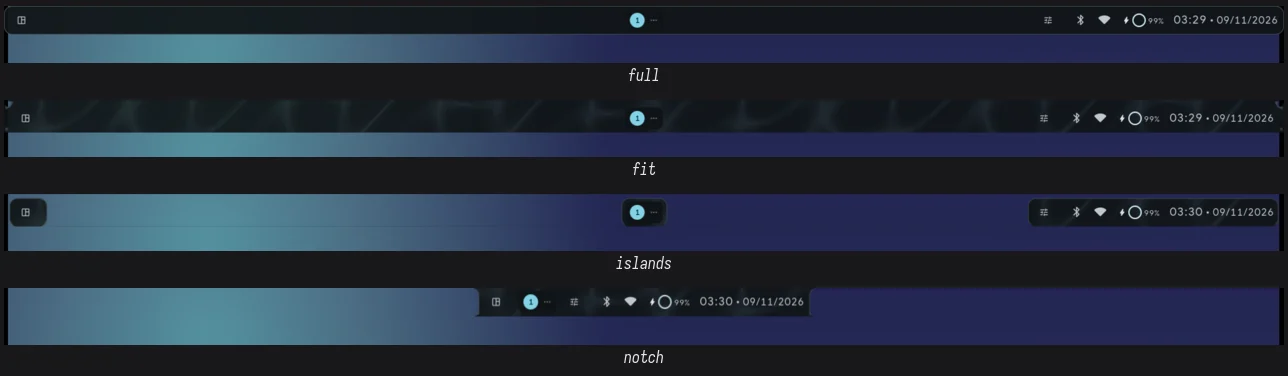
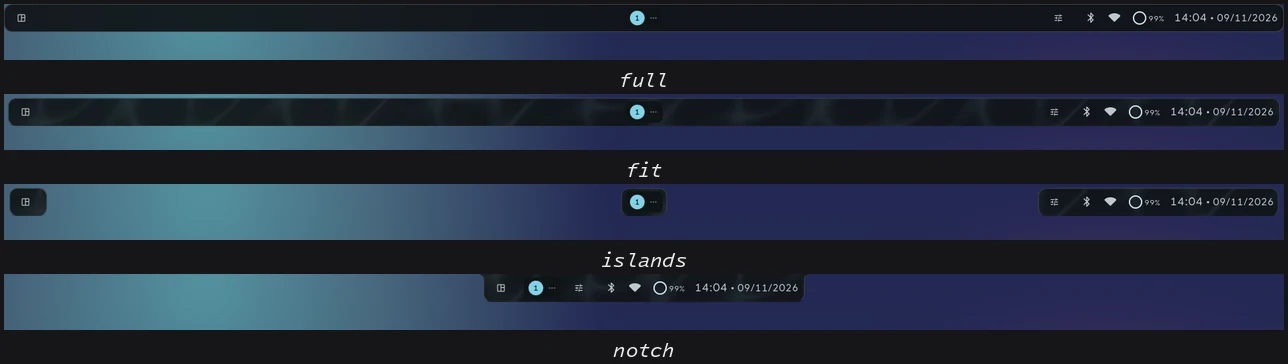
Frame: no hairline along a zero-thickness ring; bar forms retaken
A ring of no thickness sat on the window's border, so anti-aliasing drew it
as a half-covered line along every free edge (the floating bar's top and
bottom rows, the screen edge in connected mode at 0). Below 2 px its inner
edge now moves out past the window, continuously. bar-forms.webp retaken:
notch with inward bottom corners, fit with its margin and round ends.

diff --git a/modules/anoScreen/ConnectedFrame.qml b/modules/anoScreen/ConnectedFrame.qml
@@ -61,10 +61,15 @@ Item {
 
     // Cutout edges in px: left, top, right, bottom. Clamped so a thick frame on
     // a small screen can never invert the cutout.
-    readonly property real _cutL: Math.min(frameThickness, width / 2)
-    readonly property real _cutT: Math.min(frameThickness, height / 2)
-    readonly property real _cutR: Math.max(_cutL, width - Math.min(frameThickness, width / 2))
-    readonly property real _cutB: Math.max(_cutT, height - Math.min(frameThickness, height / 2))
+    // Below 2 px the ring's inner edge moves out past the window (−2 px at 0):
+    // a ring of no thickness sat on the window's border, and anti-aliasing
+    // drew it as a half-covered line along every free edge (the floating
+    // bar's top and bottom rows). Continuous with the real ring at 2 px.
+    readonly property real _inset: frameThickness >= 2 ? frameThickness : 2 * frameThickness - 2
+    readonly property real _cutL: Math.min(_inset, width / 2)
+    readonly property real _cutT: Math.min(_inset, height / 2)
+    readonly property real _cutR: Math.max(_cutL, width - Math.min(_inset, width / 2))
+    readonly property real _cutB: Math.max(_cutT, height - Math.min(_inset, height / 2))
     readonly property real _cutRadius: Math.max(0, Math.min(cornerRadius,
         Math.floor(Math.min(_cutR - _cutL, _cutB - _cutT) / 2)))
 
